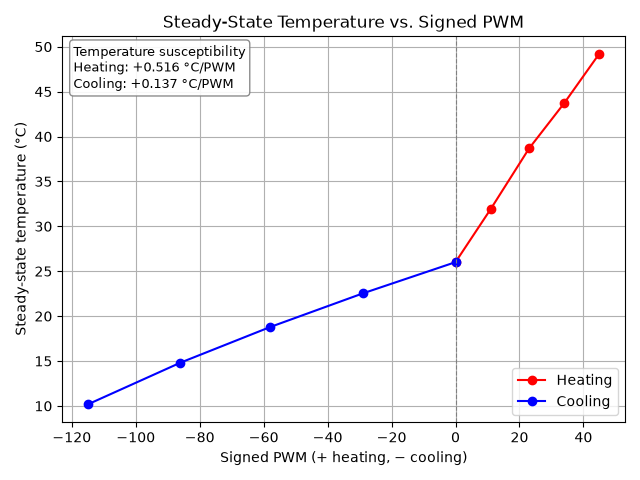
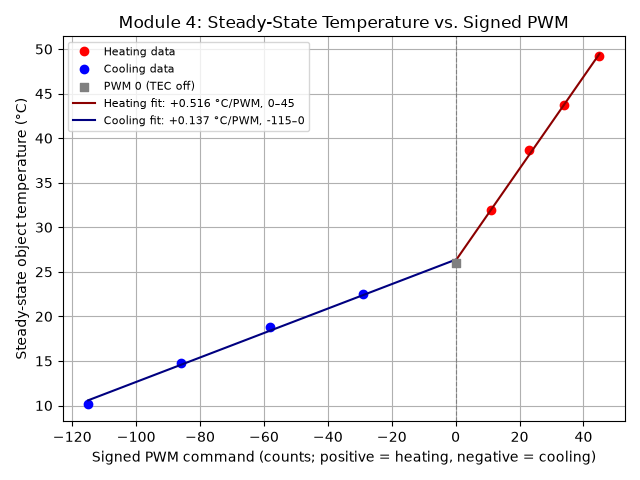
A2 addition

diff --git a/Module 4/Python/plot_steady_state.py b/Module 4/Python/plot_steady_state.py
@@ -1,9 +1,10 @@
 """Plot steady-state temperature vs. signed PWM from the Module 4 PWM
 step-test data (see README.md's "PWM step-test data" tables).
 
-Reads data/pwm_steady_state.csv and plots heating and cooling as separate
-red/blue line+marker series on the same axes. PWM is signed: positive for
-heating, negative for cooling, so the x-axis also encodes direction.
+Reads data/pwm_steady_state.csv and plots heating and cooling on common axes
+with separate least-squares fits over each full tested range. The shared
+PWM 0 point is the common unpowered baseline. PWM is signed: positive for
+heating, negative for cooling.
 """
 
 import csv
@@ -27,45 +28,58 @@ def load_steady_state_data(csv_path):
     return heat, cool
 
 
-def temperature_susceptibility(pwm, temp):
-    """Least-squares slope (deg C per PWM count) of steady-state temp vs PWM."""
-    slope, _intercept = np.polyfit(pwm, temp, 1)
-    return slope
+def fit_temperature_vs_pwm(pwm, temp):
+    """Return slope and intercept for steady-state temperature vs. signed PWM."""
+    return np.polyfit(pwm, temp, 1)
 
 
 def main():
     heat, cool = load_steady_state_data(DATA_CSV)
 
-    heat_slope = temperature_susceptibility(heat["pwm"], heat["temp"])
-    cool_slope = temperature_susceptibility(cool["pwm"], cool["temp"])
-    print(f"Heating susceptibility: {heat_slope:+.3f} C/PWM")
-    print(f"Cooling susceptibility: {cool_slope:+.3f} C/PWM")
+    heat_pwm = np.asarray(heat["pwm"])
+    heat_temp = np.asarray(heat["temp"])
+    cool_pwm = np.asarray(cool["pwm"])
+    cool_temp = np.asarray(cool["temp"])
 
-    plt.plot(heat["pwm"], heat["temp"], "o-", color="red", label="Heating")
-    plt.plot(cool["pwm"], cool["temp"], "o-", color="blue", label="Cooling")
+    heat_slope, heat_intercept = fit_temperature_vs_pwm(heat_pwm, heat_temp)
+    cool_slope, cool_intercept = fit_temperature_vs_pwm(cool_pwm, cool_temp)
+    slope_ratio = abs(heat_slope) / abs(cool_slope)
+    print(f"Heating fit ({heat_pwm.min():.0f} to {heat_pwm.max():.0f} PWM): "
+          f"{heat_slope:+.4f} C/PWM")
+    print(f"Cooling fit ({cool_pwm.min():.0f} to {cool_pwm.max():.0f} signed PWM): "
+          f"{cool_slope:+.4f} C/PWM")
+    print(f"Heating-to-cooling slope-magnitude ratio: {slope_ratio:.4f}")
+
+    heat_active = heat_pwm != 0
+    cool_active = cool_pwm != 0
+    plt.plot(heat_pwm[heat_active], heat_temp[heat_active], "o", color="red",
+             label="Heating data")
+    plt.plot(cool_pwm[cool_active], cool_temp[cool_active], "o", color="blue",
+             label="Cooling data")
+    plt.scatter([0], [heat["temp"][heat["pwm"].index(0)]], marker="s",
+                color="gray", label="PWM 0 (TEC off)", zorder=4)
+
+    heat_fit_pwm = np.linspace(heat_pwm.min(), heat_pwm.max(), 100)
+    cool_fit_pwm = np.linspace(cool_pwm.min(), cool_pwm.max(), 100)
+    plt.plot(
+        heat_fit_pwm,
+        heat_slope * heat_fit_pwm + heat_intercept,
+        color="darkred",
+        label=f"Heating fit: {heat_slope:+.3f} °C/PWM, {heat_pwm.min():.0f}–{heat_pwm.max():.0f}",
+    )
+    plt.plot(
+        cool_fit_pwm,
+        cool_slope * cool_fit_pwm + cool_intercept,
+        color="navy",
+        label=f"Cooling fit: {cool_slope:+.3f} °C/PWM, {cool_pwm.min():.0f}–{cool_pwm.max():.0f}",
+    )
     plt.axvline(0, color="gray", linewidth=0.8, linestyle="--")
 
-    plt.xlabel("Signed PWM (+ heating, \N{MINUS SIGN} cooling)")
-    plt.ylabel("Steady-state temperature (\N{DEGREE SIGN}C)")
-    plt.title("Steady-State Temperature vs. Signed PWM")
-    plt.legend(loc="best")
+    plt.xlabel("Signed PWM command (counts; positive = heating, negative = cooling)")
+    plt.ylabel("Steady-state object temperature (°C)")
+    plt.title("Module 4: Steady-State Temperature vs. Signed PWM")
+    plt.legend(loc="best", fontsize=8)
     plt.grid(True)
-
-    susceptibility_text = (
-        f"Temperature susceptibility\n"
-        f"Heating: {heat_slope:+.3f} \N{DEGREE SIGN}C/PWM\n"
-        f"Cooling: {cool_slope:+.3f} \N{DEGREE SIGN}C/PWM"
-    )
-    plt.gca().text(
-        0.02,
-        0.98,
-        susceptibility_text,
-        transform=plt.gca().transAxes,
-        ha="left",
-        va="top",
-        fontsize=9,
-        bbox={"boxstyle": "round", "facecolor": "white", "edgecolor": "gray", "alpha": 0.9},
-    )
 
     plt.tight_layout()
 

diff --git a/Module 4/A2.md b/Module 4/A2.md
@@ -1,0 +1,180 @@
+# A2: TEC Heating and Cooling Slope Analysis
+
+## Part 4: Combined graph and fits
+
+The plot generated by `Python/plot_steady_state.py` combines the heating
+and cooling steady-state measurements on one graph. The horizontal axis is
+signed PWM command (counts; positive for heating, negative for cooling),
+and the vertical axis is steady-state object temperature (°C). The fits
+use the full tested ranges: heating PWM **0–45** and cooling signed PWM
+**−115 to 0**. The PWM 0 measurement is the shared unpowered baseline; it
+is shown once on the graph and used as the zero-duty endpoint for both
+linear fits.
+
+Run the script from the Module 4 folder with the project dependencies
+installed. It reads `data/pwm_steady_state.csv`, prints the fitted slopes
+and their ratio, and saves `data/pwm_steady_state_plot.png`.
+
+## Part 5.1: Measured slopes
+
+Ordinary least-squares fits of steady-state temperature against signed PWM
+over the full tested ranges give:
+
+| Quantity | Measured value |
+| --- | ---: |
+| Heating slope, $m_h$ | $+0.516\;^\circ\mathrm{C}/\mathrm{PWM}$ count |
+| Cooling slope magnitude, $m_c=\lvert dT/dd_{\mathrm{PWM}}\rvert$ | $0.137\;^\circ\mathrm{C}/\mathrm{PWM}$ count |
+| Ratio, $r=m_h/m_c$ | $3.76$ |
+
+The measured cooling branch is plotted against signed PWM, so its fitted
+line slope is positive: increasing signed PWM from $-115$ toward $-29$
+raises the temperature. The table reports its magnitude as requested.
+
+The heating points show no clear systematic curvature. Cooling shows a
+small bend (the interior points sit slightly above a single straight-line
+fit), but the residuals remain small relative to the total temperature
+span (maximum absolute residual about $0.55\,^{\circ}\mathrm{C}$ for
+heating and $0.42\,^{\circ}\mathrm{C}$ for cooling). We use the full
+measured ranges rather than selecting a narrower interval, so the reported
+slopes represent average sensitivities over the useful ranges. The 0% row
+is the same power-off segment for both directions and serves as the shared
+zero-duty reference; subtle curvature cannot be ruled out from only five
+points per branch.
+
+## Part 5.2: PWM and the slope-ratio model
+
+For a PWM period $\tau$, let current of magnitude $I$ flow during the
+on-time $D\tau$ and be zero during the remaining $(1-D)\tau$. Then
+
+$$
+\langle I\rangle = \frac{1}{\tau}\int_0^\tau I(t)\,dt
+= \frac{I(D\tau)}{\tau}=DI,
+\qquad
+\langle I^2\rangle = \frac{1}{\tau}\int_0^\tau I(t)^2\,dt
+= \frac{I^2(D\tau)}{\tau}=DI^2.
+$$
+
+Thus the average resistive/Joule heating, proportional to $I^2R$, also
+scales with duty cycle $D$ (under the ideal on/off-current approximation).
+
+Define signed duty cycle $d=u/255$ and $D=\lvert d\rvert$. Let $\dot{Q}_P>0$ be
+the full-on Peltier heat rate into the object and $\dot{Q}_J>0$ the
+full-on Joule heat rate deposited at the object face. Use
+
+$$
+\dot{Q}_{\mathrm{TEC}}=d\dot{Q}_P+\lvert d\rvert\dot{Q}_J,
+\qquad
+C\frac{dT}{dt}=\dot{Q}_{\mathrm{TEC}}-G(T-T_0).
+$$
+
+At steady state, $dT/dt=0$ and $T=T_0+\dot{Q}_{\mathrm{TEC}}/G$.
+For heating, $d\geq0$ and $\lvert d\rvert=d$, so
+$\dot{Q}_{\mathrm{TEC}}=d(\dot{Q}_P+\dot{Q}_J)$. For cooling, $d<0$ and
+$\lvert d\rvert=-d$, so $\dot{Q}_{\mathrm{TEC}}=d(\dot{Q}_P-\dot{Q}_J)$. Differentiating
+the steady-state temperatures with respect to signed duty cycle gives
+
+$$
+m_h=\frac{dT_h}{dd}=\frac{\dot{Q}_P+\dot{Q}_J}{G},
+\qquad
+m_c=\frac{dT_c}{dd}=\frac{\dot{Q}_P-\dot{Q}_J}{G}.
+$$
+
+When $\dot{Q}_P>\dot{Q}_J$, both branch derivatives are positive and
+$m_h>m_c$. The slopes per signed PWM count each include the same factor
+$1/255$, which cancels in the ratio $r=m_h/m_c$. Therefore,
+
+$$
+r=\frac{\dot{Q}_P+\dot{Q}_J}{\dot{Q}_P-\dot{Q}_J}
+\quad\Longrightarrow\quad
+\frac{\dot{Q}_J}{\dot{Q}_P}=\frac{r-1}{r+1}.
+$$
+
+With the full-range measured value $r=3.76$,
+
+$$
+\frac{\dot{Q}_J}{\dot{Q}_P}
+=\frac{3.76-1}{3.76+1}\approx 0.580.
+$$
+
+The measured slope ratio therefore implies an object-face full-on Joule
+heat rate about **0.58 times** the full-on Peltier heat rate, under this
+model. As a check, if $r=2$, the formula gives $\dot{Q}_J/\dot{Q}_P=1/3$.
+
+## Part 5.3: Laird data-sheet calculation
+
+The specified module is the Laird Thermal Systems **CP14-127-045-L2-W4.5**
+(manufacturer part number **58910-501**). Values below are from the
+“SPECIFICATIONS” table on page 3 of the
+[Laird datasheet](https://sethfraden.github.io/Phys39F26-course/references/laird-tec-cp14-127-045.pdf),
+using its $T_{\mathrm{hot}}=27\,^\circ\mathrm{C}$ column.
+
+| Datasheet parameter | Value | Meaning and stated condition |
+| --- | ---: | --- |
+| $R_M$ (module resistance) | $1.50\,\Omega$ | Electrical module resistance; datasheet column $T_{\mathrm{hot}}=27\,^\circ\mathrm{C}$. |
+| $I_{\max}$ | $8.6\,\mathrm{A}$ | Listed as current at $\Delta T_{\max}$; $T_{\mathrm{hot}}=27\,^\circ\mathrm{C}$. |
+| $Q_{c,\max}$ | $71.3\,\mathrm{W}$ | Maximum heat pumped at the cold side, at $\Delta T=0$; $T_{\mathrm{hot}}=27\,^\circ\mathrm{C}$. |
+| $\Delta T_{\max}$ | $70.5\,^\circ\mathrm{C}$ | Maximum hot-to-cold temperature difference at $Q_c=0$; $T_{\mathrm{hot}}=27\,^\circ\mathrm{C}$. |
+
+For the usual approximately equal split of Joule heat between the module's
+two faces, the object's-face Joule rate at the listed current is
+
+$$
+\dot{Q}_{J,\max}=\frac{1}{2}I_{\max}^2R_M
+=\frac{1}{2}(8.6\,\mathrm{A})^2(1.50\,\Omega)
+=55.47\,\mathrm{W}.
+$$
+
+At $\Delta T=0$, the cold-face heat pumped is the Peltier contribution
+minus the cold-face share of Joule heating. Thus, using the datasheet
+maximum-current values in the requested lumped model,
+
+$$
+\dot{Q}_{P,\max}\approx Q_{c,\max}+\dot{Q}_{J,\max}
+=71.3+55.47=126.77\,\mathrm{W}.
+$$
+
+This gives the datasheet-based maximum-current slope-ratio prediction
+
+$$
+r_{\mathrm{Laird,max}}
+=\frac{\dot{Q}_{P,\max}+\dot{Q}_{J,\max}}
+{\dot{Q}_{P,\max}-\dot{Q}_{J,\max}}
+=\frac{126.77+55.47}{126.77-55.47}
+\approx 2.56.
+$$
+
+The calculation is an estimate using datasheet headline values: the table
+defines $I_{\max}$ at $\Delta T_{\max}$, while $Q_{c,\max}$ is specified
+at $\Delta T=0$. These extrema are not explicitly guaranteed to be a
+single simultaneous operating point, so the resulting ratio should not be
+treated as a precision prediction.
+
+## Part 5.4: Compare the ratios
+
+The measured full-range ratio is $r\approx3.76$, versus the
+datasheet-based estimate $r_{\mathrm{Laird,max}}\approx2.56$. The measured value
+is about $47\%$ higher. Exact agreement is not expected: the datasheet
+estimate combines its rated maximum-current and maximum-capacity values,
+whereas the experiment uses a different heatsink, contact, ambient
+temperature, and operating range. Module resistance and thermoelectric
+coefficients also vary with temperature, and the H-bridge/supply may
+change the current from the ideal model.
+
+In particular, a 100% PWM command ($D=1$) only means the controller holds
+the output on continuously. It does **not** regulate the TEC to
+$I_{\max}$: actual current is set by supply voltage, module resistance,
+driver voltage drop, wiring, and thermal operating conditions. Conversely,
+the Laird $I_{\max}$ is a datasheet rating defined at its specified test
+conditions, not a current guaranteed by this rig at PWM 255.
+
+### Passive heat conduction (also Part 5.4)
+
+The passive heat-flow term into the object is $-G(T-T_0)$. If the object is
+hotter than the room ($T>T_0$), passive heat flows from the object to the
+room. If the object is colder ($T<T_0$), heat flows from the room into the
+object. This approximately symmetric conduction opposes either deviation
+from ambient: it removes heat in the heating branch and adds heat in the
+cooling branch. In the linear model it contributes the same conductance
+$G$ to both branch slopes, so it cannot by itself explain unequal slope
+magnitudes; the difference comes from the branch-dependent Peltier and
+Joule terms.

diff --git a/Module 4/README.md b/Module 4/README.md
@@ -107,10 +107,7 @@ over its shorter useful range. In other words, heating is the more
 "powerful" and more quickly-saturating direction, while cooling is weaker
 per PWM count but stays useful over a much wider PWM range.
 
-This is due to various effects; the heat generated by the TEC is given by:
 
-$$Q_h = S_m T_h I + 0.5 I^2 R_m - K_m (T_h - T_c)$$
-The first term is the intended effect of the 
 ## Over-temperature cutoff
 
 `PWM_Serial_Control.ino` includes a latching, hysteretic software cutoff:
@@ -204,3 +201,40 @@ All of this lives in `Python/serial_plot_mod4.py` (same behavior as Module
 - **Sends** commands to the Arduino: `SerialReader.send_command()`, called
   from `TemperaturePlotWindow.send_current_settings()` whenever the PWM
   slider, the PWM text box, or the Heat/Cool switch changes in the GUI.
+
+## Energy Balance Analysis
+
+Heating: 0.516 °C/PWM count
+Cooling: 0.137 °C/PWM count
+Heating-to-cooling ratio by magnitude: about 3.8:1
+
+Heating Uses PWM range from 0-45 and cooling uses PWM range from 0-115
+ 
+
+The heat flow in the TEC circuit is given by:
+
+$$
+C\frac{dT}{dt} = \dot{Q}_{\mathrm{TEC}} - G(T - T_0)
+$$
+
+$\dot{Q}_{\mathrm{TEC}}$ represents heat flow from the TEC into the object.
+
+$G(T-T_0)$ represents the heat-flow into the environment and is out of te object. 
+
+
+
+$$
+\langle I \rangle = \frac{1}{\tau} \int_{0}^{\tau} I(t)\,dt
+$$ 
+
+
+results in the Duty cycle, D, multiplied by the magnitude of the current I as the current is only on for that ratio.
+
+$$
+\langle I^2 \rangle = \frac{1}{\tau} \int_{0}^{\tau} I(t)^2\,dt
+$$ 
+
+
+Adds an extra factor of I into the result. 
+
+
